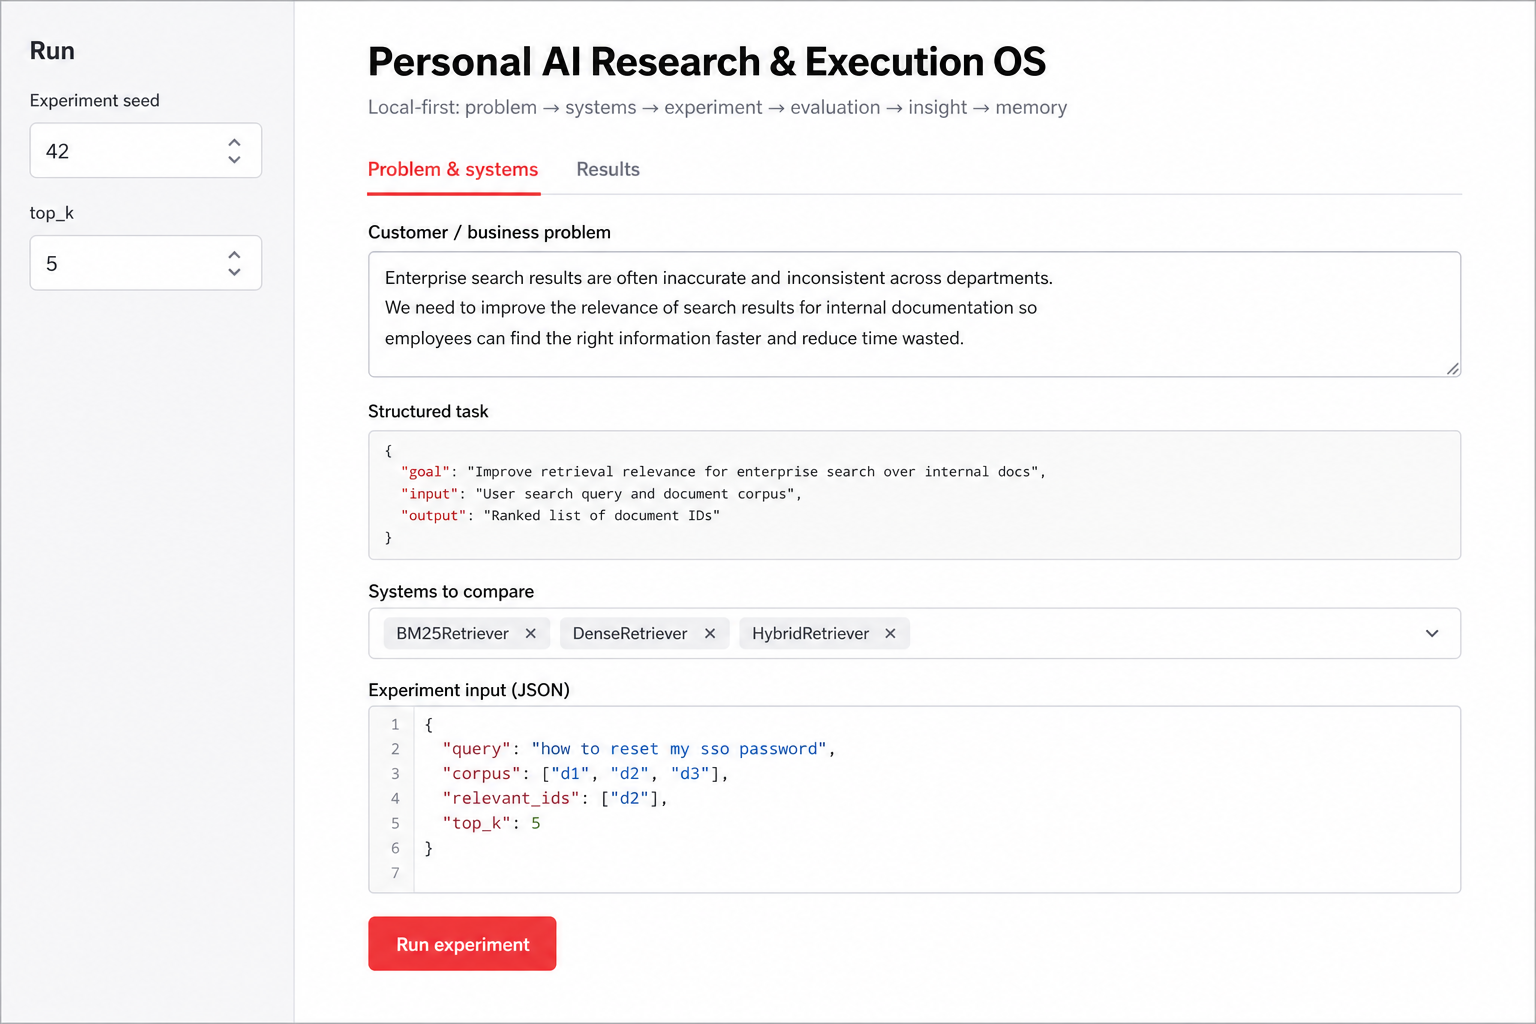
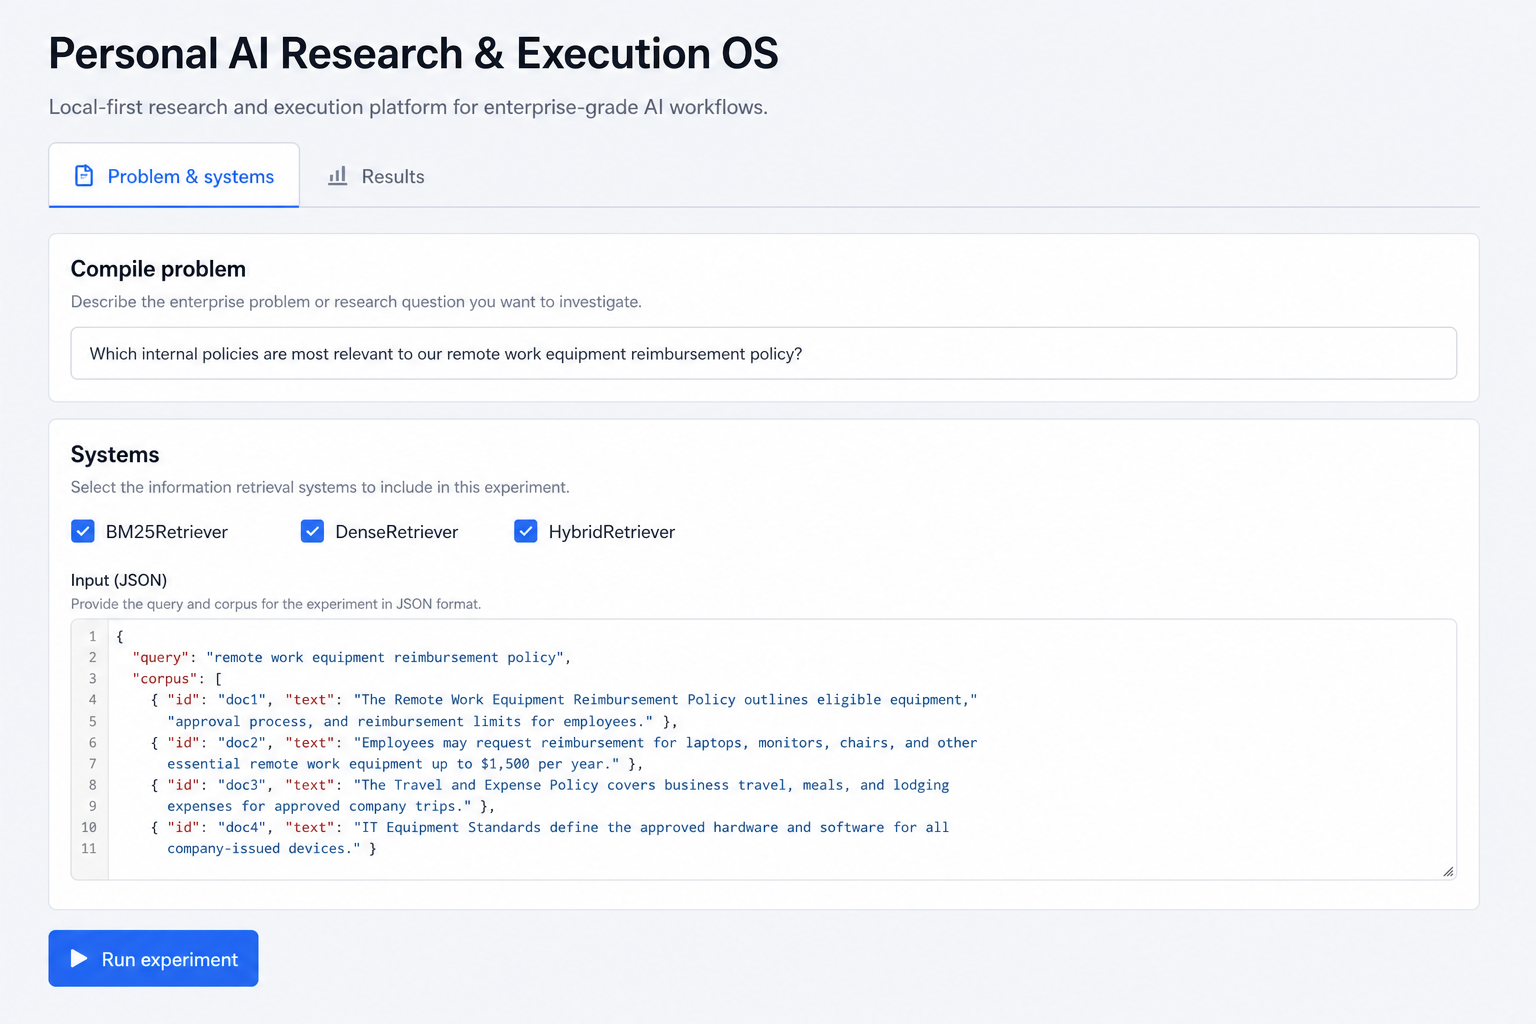
Refresh README screenshots and Streamlit run instructions.
Add composite hero image for enterprise pipeline and benchmark dashboard, regenerate Research OS dashboard asset, document 09_apps entrypoints alongside ui/app.py.

diff --git a/README.md b/README.md
@@ -8,18 +8,22 @@ Local-first Python toolkit for turning **customer problems → structured resear
 - **Reproducible runs:** seeded experiments, JSONL logs, SQLite memory.
 - **No SaaS requirement:** metrics, local judge proxies, and template QA run without external APIs (you can swap in your own models later).
 
-## Screenshot
+## Screenshots
 
-Streamlit dashboard (`ui/app.py`): compile a problem, pick systems, paste JSON input, then review results in the second tab.
+**Enterprise pipeline** (`streamlit run 09_apps/streamlit_ui.py`) and **benchmark runs** (`streamlit run 09_apps/benchmark_dashboard.py`) — representative layouts:
 
-![Streamlit research dashboard — Problem & systems tab](assets/research-os-dashboard.png)
+![Enterprise pipeline (left) and benchmark dashboard (right)](assets/readme-dashboards.png)
 
-*Preview image aligned with the current Streamlit layout; replace with your own capture if you prefer a literal runtime screenshot.*
+**Research IR dashboard** (`streamlit run ui/app.py`): compile a problem, pick systems, paste JSON input, then review results in the **Results** tab.
+
+![Research OS — Problem & systems tab](assets/research-os-dashboard.png)
 
 ## Layout
 
 | Path | Purpose |
 |------|---------|
+| `09_apps/` | Streamlit apps: enterprise pipeline, benchmark history, SOTA radar. |
+| `pipeline.py` | Enterprise runner (full / LangGraph / production entrypoints). |
 | `problem_compiler/` | Natural language → structured task (domain, hypotheses, suggested systems). |
 | `system_registry/` | `AISystem` implementations and registry. |
 | `experiment_engine/` | Run the same input across selected systems; append-only logs under `data/logs/`. |
@@ -59,15 +63,25 @@ python research_os/main.py --systems BM25Retriever DenseRetriever HybridRetrieve
 python main.py --systems BM25Retriever DenseRetriever HybridRetriever
 ```
 
-**Streamlit UI:**
+**Streamlit UIs:**
 
 ```bash
+# Enterprise problem → decomposition → SOTA → architecture → eval → iteration
+streamlit run 09_apps/streamlit_ui.py
+
+# Benchmark history (SQLite / Postgres via env)
+streamlit run 09_apps/benchmark_dashboard.py
+
+# SOTA radar (papers / leaderboard snapshots)
+streamlit run 09_apps/sota_radar_dashboard.py
+
+# Research OS — IR-style experiments across registered systems
 streamlit run research_os/ui/app.py
-# or, from repo root that matches this tree:
+# or, from repo root:
 streamlit run ui/app.py
 ```
 
-Use the **Problem & systems** tab to compile a problem, pick systems, paste JSON input (IR-style: `query`, `corpus`, optional `relevant_ids`, `top_k`), then run. Open **Results** for tables, pairwise output, insights, and failure snapshots.
+Use **`09_apps/streamlit_ui`** for the JSON-first enterprise pipeline. Use **`ui/app`** — **Problem & systems** tab to compile a problem, pick systems, paste JSON input (IR-style: `query`, `corpus`, optional `relevant_ids`, `top_k`), then run. Open **Results** for tables, pairwise output, insights, and failure snapshots.
 
 ## Input hints
 
